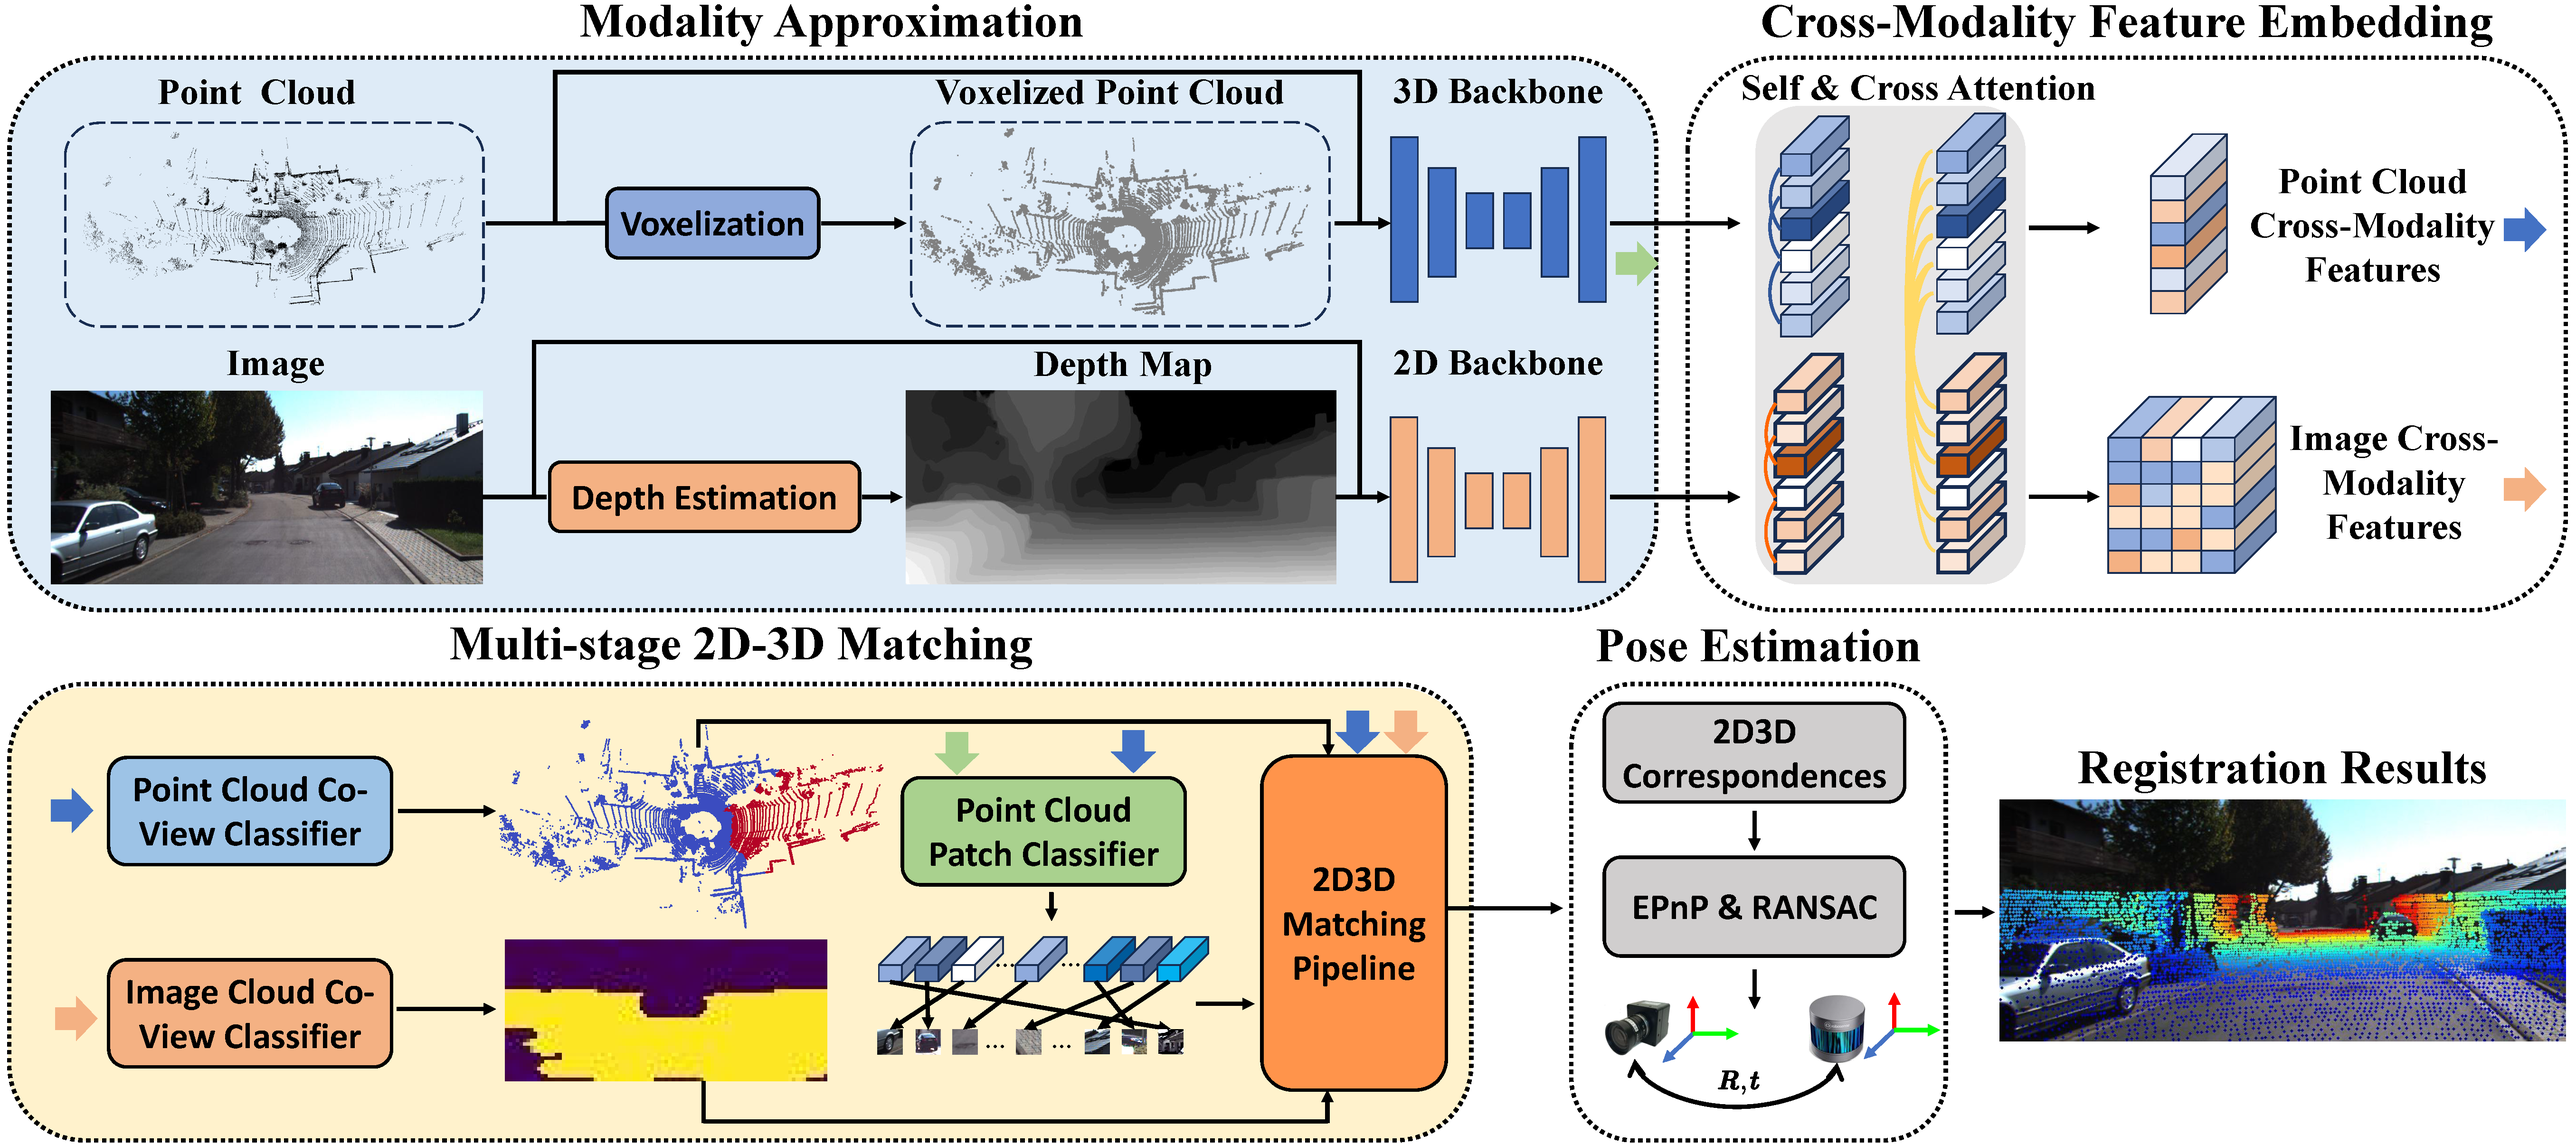
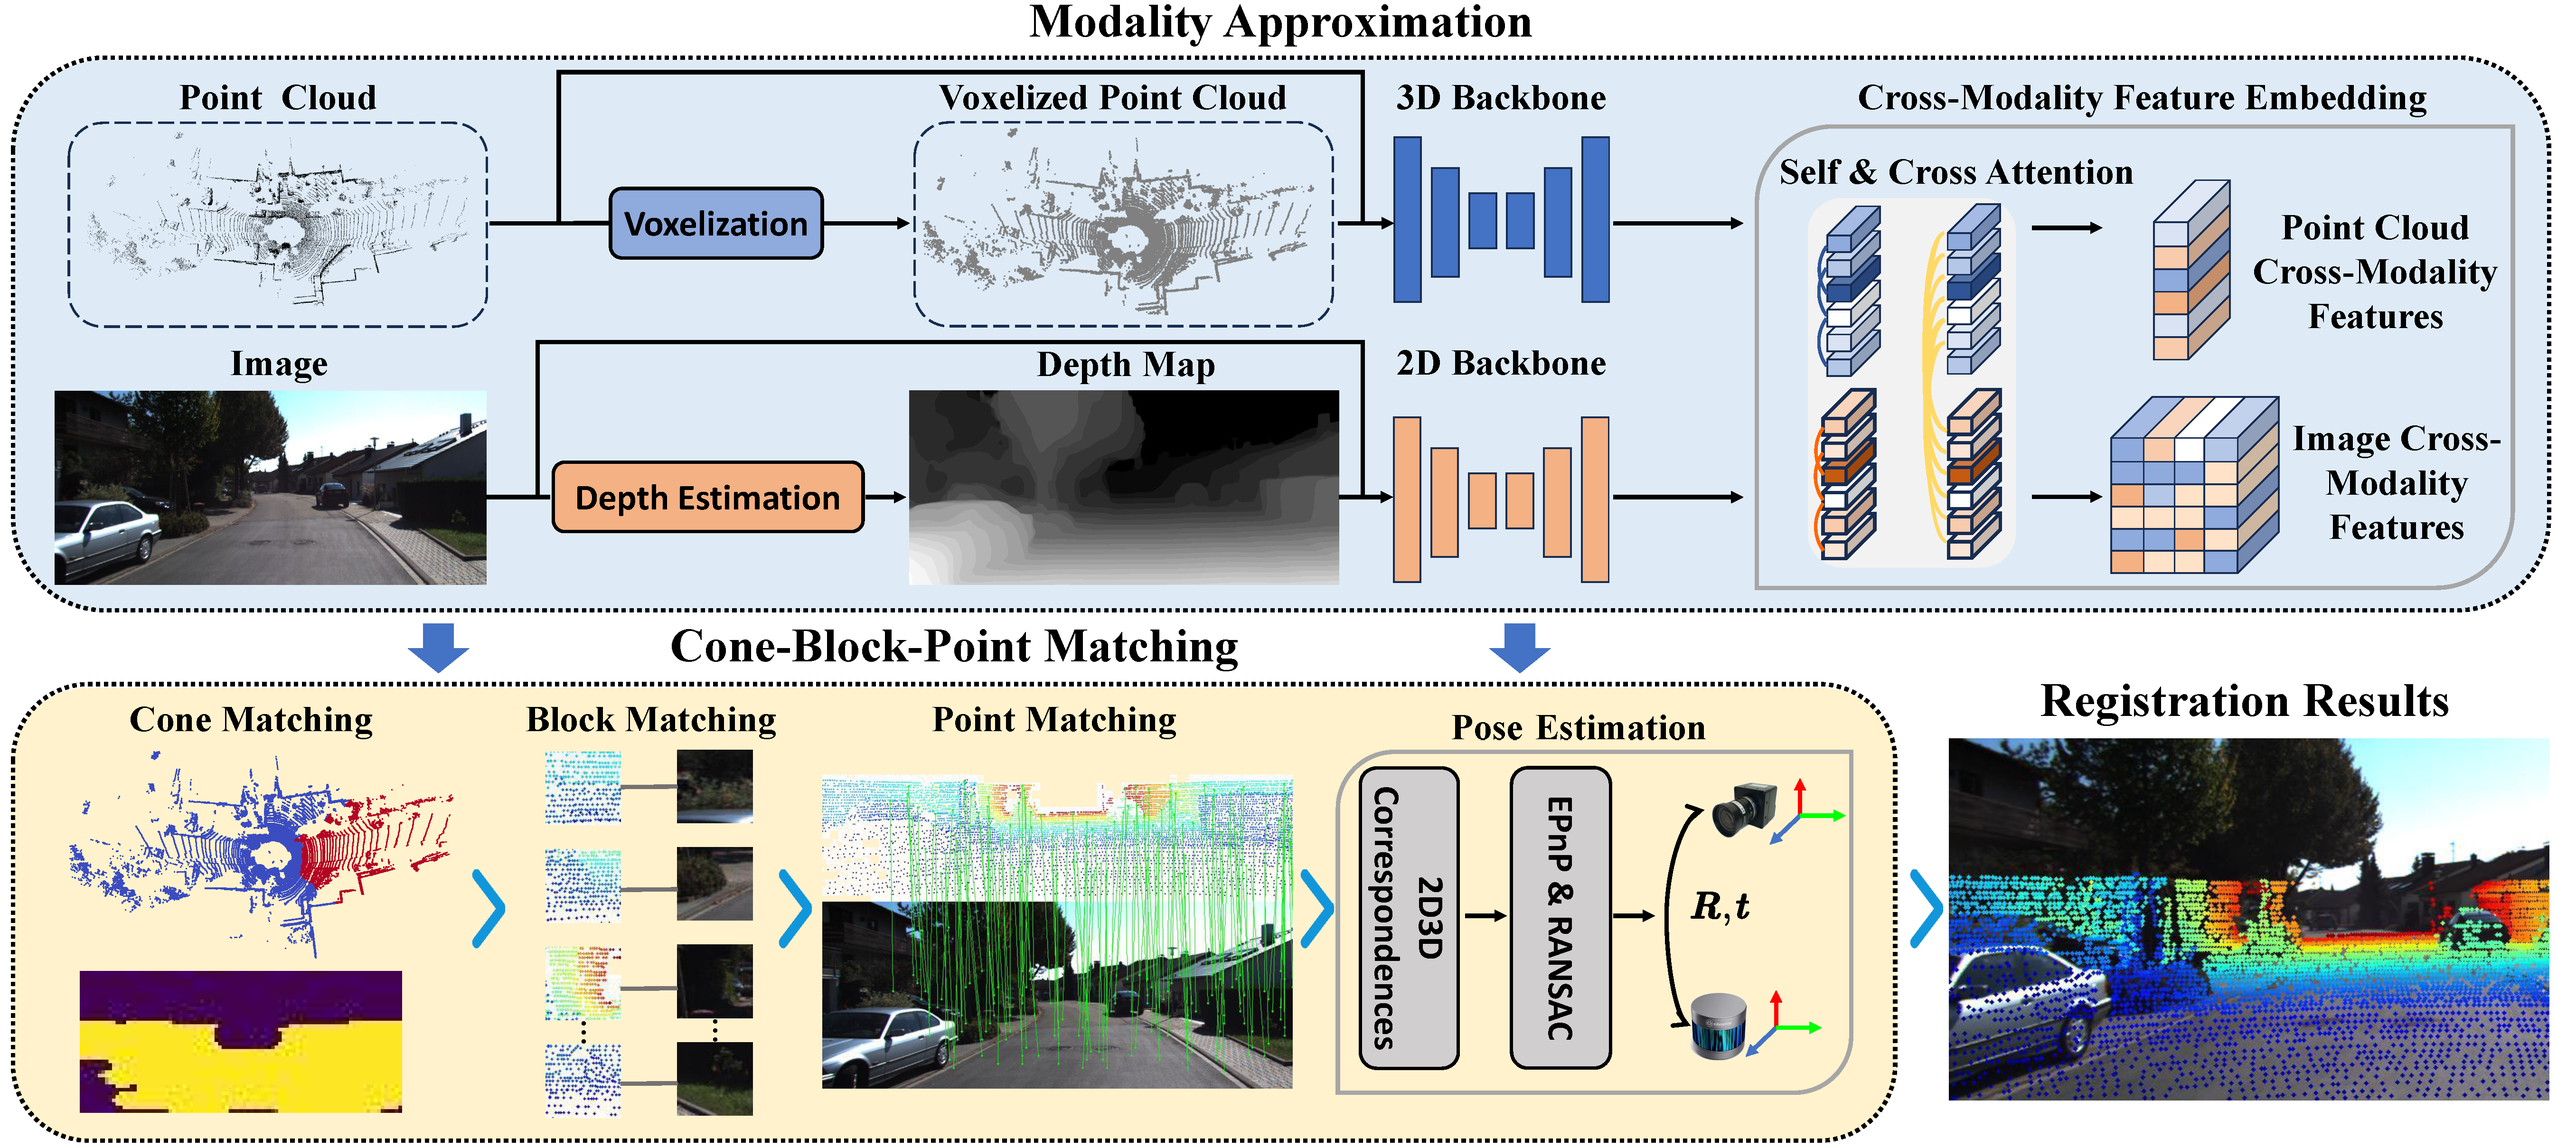
version 2

diff --git a/index.html b/index.html
@@ -48,7 +48,7 @@
     <div class="container is-max-desktop">
       <div class="columns is-centered">
         <div class="column has-text-centered">
-          <h1 class="title is-1 publication-title">M<sup>2</sup>I2P: Image-to-Point Cloud Registration with Modality Approximation and Multi-Stage Matching</h1>
+          <h1 class="title is-1 publication-title">MAC-I2P: I2P Registration with Modality Approximation and Cone-Block-Point Matching</h1>
           <div class="is-size-5 publication-authors">
             <span class="author-block">
               Yunda Sun<sup>1</sup>,</span>
@@ -125,7 +125,7 @@
                 type="video/mp4">
       </video>
       <h2 class="subtitle has-text-centered">
-        M<sup>2</sup>I2P estimate the relative pose between images and point clouds.
+        MAC-I2P estimate the relative pose between images and point clouds.
       </h2>
     </div>
   </div>
@@ -143,8 +143,11 @@
       alt="Interpolate start reference image."/>
     </div>
     <h3><p>
-      M<sup>2</sup>I2P is composed of four components: modality approximation, cross-modality feature embedding, multi-stage 2D-3D matching, and pose estimation. 
-      First, we mitigate the modality disparities by introducing more data redundancy through image depth estimation and point cloud voxelization, followed by feature extraction using corresponding backbones. Next, cross-modality feature embedding is employed to further align the feature domains. Further, multi-stage 2D-3D matching establishes pixel-point correspondences using the aligned cross-modality features as input. At last, the relative pose is inferred through the pose estimation component.
+      MAC-I2P is composed of two components: modality approximation and cone-block-point matching. 
+      First, the modality discrepancies are mitigated by introducing image depth estimation and point cloud voxelization. 
+      Subsequently, cross-modality feature embedding is employed to extract the cross-modality features of both image and point cloud. 
+      After obtaining the cross-modality features, pixel-point correspondences are established by cone-block-point matching. 
+      At last, the relative pose is inferred through the pose estimation.
     </p></h3>
   </div>
 </section>
